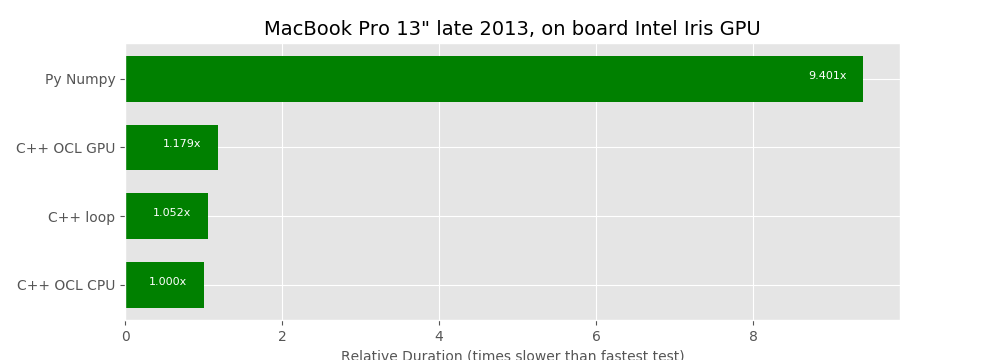
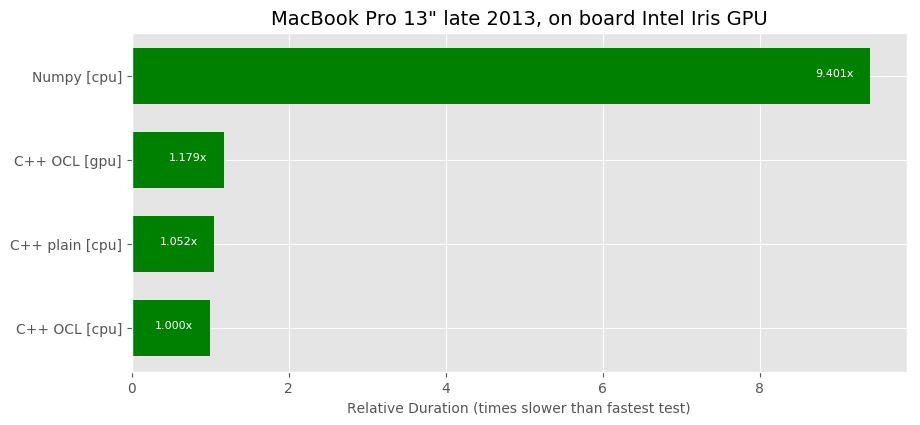
Added TensorFlow implementation

diff --git a/results/create_charts.py b/results/create_charts.py
@@ -7,6 +7,12 @@ import matplotlib.pyplot as plt
 import numpy as np
 import pandas as pd
 
+known_columns = set(['Python loop [cpu]', 'Numpy [cpu]',
+                     'C++ plain [cpu]',
+                     'C++ CUDA [cpu]',
+                     'C++ OCL [cpu]', 'C++ OCL [gpu]',
+                     'PyOCL [cpu]', 'PyOCL [gpu]',
+                     'TensorFlow [cpu]', 'TensorFlow [gpu]'])
 
 def create_chart(spec, output_md, use_rel=True):
     print('Processing {} "{}"'.format(spec['data'], spec['title']))
@@ -32,6 +38,10 @@ def create_chart(spec, output_md, use_rel=True):
 
     df = pd.read_csv(spec['data'])
     m = df.mean().sort_values(ascending=False)
+    for idx in m.index:
+        if idx not in known_columns:
+            sys.stderr.write("Error: unrecognized column name '{}'\n".format(idx))
+            sys.exit(1)
     rel = m / m[-1]
     std = df.std()
 
@@ -68,7 +78,7 @@ def create_chart(spec, output_md, use_rel=True):
     y = rel
     xlims = None
 
-    fig = plt.figure(figsize=(10, 2 + 0.4 * len(m)))
+    fig = plt.figure(figsize=(10, 2 + 0.6 * len(m)))
     if xlims:
         ax = brokenaxes(xlims=xlims, hspace=.05)
     else:
@@ -87,7 +97,7 @@ def create_chart(spec, output_md, use_rel=True):
     ax.set_title(spec['title'], fontdict={'size': 14})
 
     ax.grid(color='w')
-    plt.savefig(png_file)
+    plt.savefig(png_file, bbox_inches='tight')
 
     output_md += "\n\n"
     return output_md
@@ -101,6 +111,15 @@ file. Feel free to submit a result:
 1. Record your test results in a CSV file. Repeat each test at least 5 times. See other csv files for samples.
 2. Create an entry in [result_specs.json](result_specs.json)
 3. Create pull request
+
+When creating a CSV, please standardize the column names to use the following names, otherwise
+the CSV will be rejected by `create_charts.py`:
+- 'Python loop [cpu]', 'Numpy [cpu]', 
+- 'C++ plain [cpu]', 
+- 'C++ CUDA [cpu]', 
+- 'C++ OCL [cpu]', 'C++ OCL [gpu]',
+- 'PyOCL [cpu]', 'PyOCL [gpu]',
+- 'TensorFlow [cpu]', 'TensorFlow [gpu]'
 """
 
 if __name__ == "__main__":

diff --git a/saxpy_tf.py b/saxpy_tf.py
@@ -1,0 +1,40 @@
+import sys
+import time
+
+import saxpy
+import tensorflow as tf
+
+def main(where):
+    print("Using " + where)
+    print("N: {}".format(saxpy.N))
+    Y = tf.Variable(tf.constant(saxpy.YVAL, shape=[saxpy.N], dtype=tf.float32), name="Y")
+    A = tf.constant(saxpy.AVAL, tf.float32, name="A")
+    X = tf.Variable(tf.constant(saxpy.XVAL, shape=[saxpy.N], dtype=tf.float32), name="X")
+    saxpy_node = tf.assign_add(Y, A * X)
+
+    verbose = False
+    sess = tf.Session(config=tf.ConfigProto(log_device_placement=True) if verbose else None)
+
+    init = tf.global_variables_initializer()
+    sess.run(init)
+
+    t0 = time.time()
+    sess.run(saxpy_node)
+    t1 = time.time()
+    print("Elapsed: {} ms".format((t1 - t0) * 1000.0))
+
+    answer = tf.constant(saxpy.AVAL * saxpy.XVAL + saxpy.YVAL, tf.float32, name="Answer")
+    err_node = tf.reduce_sum(tf.abs(Y - answer))
+    print("Errors: {}".format(sess.run(err_node)))
+
+
+if __name__ == "__main__":
+    where = sys.argv[1] if len(sys.argv) > 1 else ""
+    if where == "gpu":
+        with tf.device("/device:GPU:0"):
+            main("/device:GPU:0")
+    elif where == "cpu":
+        with tf.device("/device:CPU:0"):
+            main("/device:CPU:0")
+    else:
+        main("default device")

diff --git a/saxpy.py b/saxpy.py
@@ -1,7 +1,7 @@
 N = 2 ** 26
-XVAL = 2.0
-YVAL = 1.0
-AVAL = 3.0
+XVAL = 2.5
+YVAL = 1.5
+AVAL = 3.5
 
 def verify(y):
     import numpy as np

diff --git a/results/README.md b/results/README.md
@@ -7,6 +7,66 @@ file. Feel free to submit a result:
 2. Create an entry in [result_specs.json](result_specs.json)
 3. Create pull request
 
+When creating a CSV, please standardize the column names to use the following names, otherwise
+the CSV will be rejected by `create_charts.py`:
+- 'Python loop [cpu]', 'Numpy [cpu]', 
+- 'C++ plain [cpu]', 
+- 'C++ CUDA [cpu]', 
+- 'C++ OCL [cpu]', 'C++ OCL [gpu]',
+- 'PyOCL [cpu]', 'PyOCL [gpu]',
+- 'TensorFlow [cpu]', 'TensorFlow [gpu]'
+
+
+# i7-6700 3.40GHz, NVidia GTX 475
+
+Submitted by Benny Prijono on 2017-11-14
+
+
+### Specs
+
+|    |    |
+|----|----|
+| System | HP Pavilion 550-227 desktop |
+|  | Intel i7-6700 CPU @ 3.40GHz (4 cores, HT capable) |
+| OS | Windows 10 64bit |
+| GPU | NVidia GeForce GTX 475 4GB mem |
+| C++ Compiler | Visual Studio 2015 C++ compiler 64bit version |
+| Python | 2.7.12 64bit |
+| Python3 | 3.5.3 64bit |
+| TensorFlow | TensorFlow 1.4 (GPU) |
+| CUDA | Version 8.0.61 |
+| OpenCL | - Intel OpenCL SDK Version 7.0.0.2519 |
+|  | - OpenCL from CUDA SDK |
+| PyOpenCL | version 2017.2 |
+
+
+### Result
+
+![benny-desktop1.png](benny-desktop1.png?raw=true "benny-desktop1.png")
+
+
+ ### Details
+
+| Test   | Mean Time (ms) | StdDev (ms) | Time (rel)
+|--------| --------: | --------: | --------: |
+| Python loop [cpu] | 12494.000 | 198.252 | 390.80x |
+| Numpy [cpu] | 289.167 | 21.628 | 9.04x |
+| PyOCL [gpu] | 222.500 | 3.271 | 6.96x |
+| TensorFlow [cpu] | 214.564 | 2.450 | 6.71x |
+| C++ OCL [cpu] | 110.983 | 2.128 | 3.47x |
+| TensorFlow [gpu] | 78.536 | 0.522 | 2.46x |
+| PyOCL [cpu] | 46.000 | 1.265 | 1.44x |
+| C++ plain [cpu] | 42.213 | 3.059 | 1.32x |
+| C++ CUDA [cpu] | 32.218 | 0.019 | 1.01x |
+| C++ OCL [gpu] | 31.970 | 0.057 | 1.00x |
+
+
+### Notes
+
+- **outlier "Python loop [cpu]" is removed from the chart**
+
+
+
 
 # MacBook Pro 13" late 2013, on board Intel Iris GPU
 
@@ -32,62 +92,15 @@ Submitted by Benny Prijono on 2017-11-14
 
 | Test   | Mean Time (ms) | StdDev (ms) | Time (rel)
 |--------| --------: | --------: | --------: |
-| Python loop | 20491.674 | 2353.082 | 429.93x |
-| Py Numpy | 448.097 | 14.627 | 9.40x |
-| C++ OCL GPU | 56.174 | 1.138 | 1.18x |
-| C++ loop | 50.127 | 2.145 | 1.05x |
-| C++ OCL CPU | 47.663 | 0.936 | 1.00x |
+| Python loop [cpu] | 20491.674 | 2353.082 | 429.93x |
+| Numpy [cpu] | 448.097 | 14.627 | 9.40x |
+| C++ OCL [gpu] | 56.174 | 1.138 | 1.18x |
+| C++ plain [cpu] | 50.127 | 2.145 | 1.05x |
+| C++ OCL [cpu] | 47.663 | 0.936 | 1.00x |
 
 
 ### Notes
 
-- **outlier "Python loop" is removed from the chart**
-
-
-
-
-# i7-6700 3.40GHz, NVidia GTX 475
-
-Submitted by Benny Prijono on 2017-11-14
-
-
-### Specs
-
-|    |    |
-|----|----|
-| System | HP Pavilion 550-227 desktop |
-|  | Intel i7-6700 CPU @ 3.40GHz (4 cores, HT capable) |
-| OS | Windows 10 64bit |
-| GPU | NVidia GeForce GTX 475 4GB mem |
-| Compiler | Visual Studio 2015 C++ compiler 64bit version |
-| CUDA | Version 8.0.61 |
-| OpenCL | - Intel OpenCL SDK Version 7.0.0.2519 |
-|  | - OpenCL from CUDA SDK |
-| Python | 2.7.12 64bit |
-| PyOpenCL | version 2017.2 (prebuilt binary) |
-
-
-### Result
-
-![benny-desktop1.png](benny-desktop1.png?raw=true "benny-desktop1.png")
-
-
- ### Details
-
-| Test   | Mean Time (ms) | StdDev (ms) | Time (rel)
-|--------| --------: | --------: | --------: |
-| Python loop | 12494.000 | 198.252 | 390.80x |
-| Py Numpy | 289.167 | 21.628 | 9.04x |
-| PyOCL GPU | 222.500 | 3.271 | 6.96x |
-| C++ OCL CPU | 110.983 | 2.128 | 3.47x |
-| PyOCL CPU | 46.000 | 1.265 | 1.44x |
-| C++ loop | 42.213 | 3.059 | 1.32x |
-| C++ CUDA | 32.218 | 0.019 | 1.01x |
-| C++ OCL GPU | 31.970 | 0.057 | 1.00x |
-
-
-### Notes
-
-- **outlier "Python loop" is removed from the chart**
+- **outlier "Python loop [cpu]" is removed from the chart**
 
 

diff --git a/README.md b/README.md
@@ -10,6 +10,7 @@ This repository contains several implementations of SAXPY such as:
  - naive Python loop [[saxpy_loop.py](saxpy_loop.py)]
  - Python Numpy [[saxpy_numpy.py](saxpy_numpy.py)]
  - naive C++ loop [[saxpy_cpu.cpp](saxpy_cpu.cpp)]
+ - TensorFlow (CPU and GPU) [[saxpy_tf.py](saxpy_tf.py)]
  - C++ CUDA (GPU) [[saxpy_cuda.cu](saxpy_cuda.cu)]
  - OpenCL (CPU and GPU) [[saxpy_ocl1.cpp](saxpy_ocl1.cpp)] 
  - PyOpenCL (CPU and GPU) [[saxpy_pyocl.py](saxpy_pyocl.py)]
@@ -314,3 +315,47 @@ Error: 0.0
 
 Interestingly the PyOpenCL CPU result is a lot (more than 4x) faster than the PyOpenCL GPU.
 In fact, it is faster than the OpenCL C++ version for CPU!
+
+
+# TensorFlow
+
+TensorFlow ([https://www.tensorflow.org/](https://www.tensorflow.org/)) is an open-source software 
+library for Machine Intelligence. It is created by Google and is the most widely used machine 
+learning framework today.
+
+It feels a bit silly to use TensorFlow just to run SAXPY, but I think expression like SAXPY is
+very common in machine learning (imagine `A` is learning rate), so the test is pretty justifiable.
+
+### Implementation
+
+See [saxpy_tf.py](saxpy_tf.py).
+
+### Installation
+
+I install `tensorflow-gpu` with `pip3`. See [TF installation instructions](https://www.tensorflow.org/install/)
+for more info.
+
+### Running
+
+Running `saxpy_tf.py` without any arguments will use GPU if available, or CPU if no GPU is 
+installed. This one is running on GPU:
+
+```
+C:\..> python3 saxpy_tf.py
+Using default device
+N: 67108864
+Elapsed: 79.21028137207031 ms
+Errors: 0.0
+```
+
+You can give it `cpu` or `gpu` argument to make it to use the CPU or GPU device. Giving `cpu` 
+gives the following result:
+
+
+```
+C:\..> python3 saxpy_tf.py cpu
+Using /device:CPU:0
+N: 67108864
+Elapsed: 233.62112045288086 ms
+Errors: 0.0
+```
